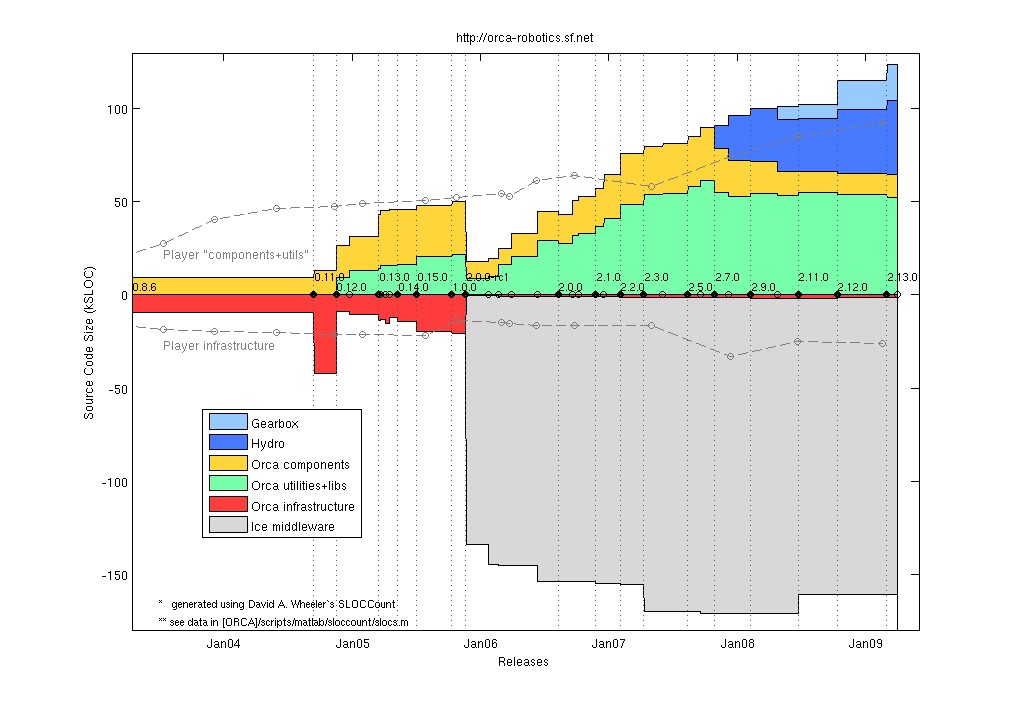
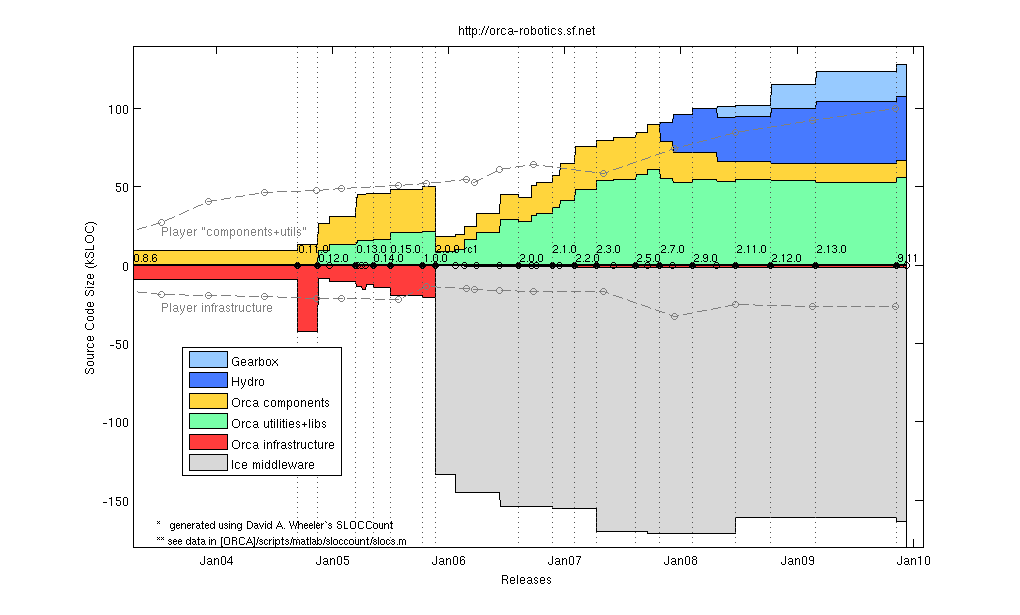
git-svn-id: https://orca-robotics.svn.sf.net/svnroot/orca-robotics/orca/trunk@5666 534d5172-be3c-0410-9a3e-ccaa6372a113

diff --git a/scripts/matlab/sloccount/slocs.m b/scripts/matlab/sloccount/slocs.m
@@ -71,13 +71,13 @@ Sorca = [ ...
 % UTIL: sloccount src/utils
 2005    11  20  1   Sice212 530    9226         8781        0    0   % 2.0.0-rc1
 2006     1  22  0   Sice301 596    9801         9695        0    0   % 2.0.0-rc2
-% UTIL-IN-COMP: sloccount components/log* 
+% UTIL-IN-COMP: sloccount components/log*
 % COMP: sloccount components MINUS UTIL-IN-COMP
 % UTIL: sloccount utils PLUS UTIL-IN-COMP
 2006     2  20  0   Sice301 813    9867-1372    14734+1372  0    0  % 2.0.0-rc3
 % UTIL-IN-COMP: sloccount components/orcaview* components/log*
 2006     3  29  0   Sice301 1052   14625-2421   18131+2421  0    0  % 2.0.0-rc4
-2006     6  11  0   Sice310 1116   19999-4215   24867+4215  0    0  % 2.0.0-rc5  
+2006     6  11  0   Sice310 1116   19999-4215   24867+4215  0    0  % 2.0.0-rc5
 2006     8   9  1   Sice310 1116   19979-4348   23066+4348  0    0  % 2.0.0
 2006     9  18  0   Sice310 1094   19317-329    31304+329   0    0  % 2.0.1
 2006    10   5  0   Sice310 1094   20384-329    32255+329   0    0  % 2.0.2
@@ -101,12 +101,17 @@ Sorca = [ ...
 2008     6  22  1   Sice330 1819    11680   54648  28410  7277  % 2.11.0 (G 1.0.0)
 2008    10  11  1   Sice330 1583    10890   53989  34849  15399 % 2.12.0 (G 8.07)
 2009     3   1  1   Sice330 1734    12056   52437  39779  19402 % 2.13.0 (G 9.02)
-2009     7  10  1   Sice331 1828    12513   53478  41079  20034 % 9.07 (G 9.02)
+% BASE: c_count src/interfaces/slice/orca/*.ice
+% COMP: sloccount src/components
+% UTIL: sloccount src/utils src/libs
+% A&D: sloccount src/hydrointerfaces/ src/hydrodrivers/ src/hydrolibs/
+% COMMON: Gearbox: sloccount src
+2009    11  10  1   Sice331 1830    11161   55611  41006  20284 % 9.11 (G 9.11)
 ];
 Vorca ={'0.8.6', '0.11.0', '0.12.0', '0.12.1', '0.13.0', '0.13.1', '0.13.2', '0.13.3', '0.14.0', '0.15.0', '1.0.0', ...
     '2.0.0-rc1', '2.0.0-rc2', '2.0.0-rc3', '2.0.0-rc4', '2.0.0-rc5', '2.0.0', '2.0.1', '2.0.2', '2.1.0', '2.1.1', ...
     '2.2.0', '2.3.0', '2.4.0', '2.5.0', '2.6.0', '2.7.0', '2.8.0', '2.9.0', '2.10.0', '2.11.0', '2.12.0', '2.13.0', ...
-    '9.07' }';
+    '9.11' }';
 
 % add a dummy release just for display
 Sorca(end+1,:) = Sorca(end,:);
@@ -130,11 +135,11 @@ Sgenom = [
 % SUB : cd pocolibs-2.3; sloccount include src
 % BASE: cd genom-2.0; sloccount include src
 % COMP: 0
-% UTIL: 0 
+% UTIL: 0
 2007    8   31  1  9786    11368   0   0       % 2.0
 ];
 
-Splayer = [ 
+Splayer = [
 % YY    MM  DD  ?   SUB     BASE                COMP       UTIL  VERSION
 % BASE: (server-drivers)+client_libs
 % COMP: drivers + utils
@@ -150,10 +155,10 @@ Splayer = [
 % COMP: server + utils
 2005    10 25   0  0    (4866-0)+7560+(1391-0)  46474+5725  0   % 2.0pre7
 % SUB : 0
-% BASE: sloccount libplayercore client_libs libplayertcp 
+% BASE: sloccount libplayercore client_libs libplayertcp
 %           MINUS sloccount libplayercore/bindings/ libplayertcp/bindings
 % note: libplayerxdr is autogenerated
-% COMP: sloccount server 
+% COMP: sloccount server
 % UTIL: sloccount utils PLUS stage/src
 % YY    MM  DD  ?   SUB     BASE                COMP       UTIL  VERSION
 2006    2  28   1  0    63992-47749-1291        54704       0     % 2.0.0
@@ -164,6 +169,7 @@ Splayer = [
 2007   12  13   1  0    34980-2039              74385       11417+15464 % 2.1.0rc1
 2008    6  20   1  0    25068-109               85020       12150+15464 % 2.1.0
 2009    2  18   1  0    26362-109               92554       12194+15464 % HEAD
+2009   11   7   1  0    26483-109              100295       12194+15464 % HEAD
 ];
 Tplayer = datenum(Splayer(:,1),Splayer(:,2),Splayer(:,3));
 
@@ -172,7 +178,7 @@ Saria = [
 % SUB : 0
 % BASE: sloccount ArNetworking/include/ ArNetworking/src/
 % COMP: sloccount include src
-% UTIL: 0 
+% UTIL: 0
 2007    2   20  1  0    15854   45965   0       % 2.5.1
 ];
 
@@ -181,7 +187,7 @@ Scarmen = [
 % SUB : cd src; sloccount ipc
 % BASE: sloccount carmenpp global java python
 % COMP: sloccount src MINUS all other
-% UTIL: sloccount logger logtools mapeditor param_daemon robotgui simulator 
+% UTIL: sloccount logger logtools mapeditor param_daemon robotgui simulator
 2007    8   15  1  24965    12032   107745-24965-12032-19629  19629   % 0.6.7
 ];
 
@@ -191,7 +197,7 @@ Sorocos = [
 % BASE: ?
 % LIBS: sloccount orocos-bfl-[VERSION]-src/src PLUS sloccount kdl-[VERSION]/kdl
 % COMP: sloccount orocos-rtt-[VERSION]/src PLUS cd orocos-ocl-[VERSION]; sloccount hardware motion_control
-% UTIL: cd orocos-ocl-[VERSION]; sloccount taskbrowser signals deployment reporting viewer ocl 
+% UTIL: cd orocos-ocl-[VERSION]; sloccount taskbrowser signals deployment reporting viewer ocl
 2007    8   15  1  160300+237011   0   (7767+12865)+(48971+20068)    5104   % ace-5.5, tao-1.5, rtt-1.2.1, bfl-0.6.1, kdl-0.4, ocl-0.4.1
 ];
 
@@ -199,7 +205,7 @@ Syarp = [
 % YY    MM  DD  ?   SUB  BASE     COMP       UTIL   VERSION
 % SUB : 0
 % BASE: sloccount libYARP_OS libYARP_OS_compat
-% COMP: sloccount yarpdev libYARP_dev libYARP_math libYARP_sig libYARP_sig_compat 
+% COMP: sloccount yarpdev libYARP_dev libYARP_math libYARP_sig libYARP_sig_compat
 % UTIL: sloccount yarp-imageviewer modules
 2007    7   26  1  0     21633   23528    1613   % 2.1.6
 ];
@@ -251,7 +257,7 @@ set(ha(7),'facecolor', lblue);
 ha(1)=[];
 legend(fliplr(ha),'Gearbox','Hydro','Orca components','Orca utilities+libs','Orca infrastructure','Ice middleware', 'Location','SouthWest')
 %  xlim(datenum([2004;2005],[7;7],[1;1]) )
-ylim([-Smax 130])
+ylim([-Smax 140])
 ax=axis;
 %  xlim( [ax(1) datenum([2006 12 31])] )
 ax=axis;
@@ -280,4 +286,4 @@ set(ht,'fontsize',8)
 ht=text(datenum(2003,7,1),-Smax+5, '** see data in [ORCA]/scripts/matlab/sloccount/slocs.m' );
 set(ht,'fontsize',8)
 
-xlim( [ax(1) datenum([2009 10 1])] )
+xlim( [ax(1) datenum([2010 2 1])] )
